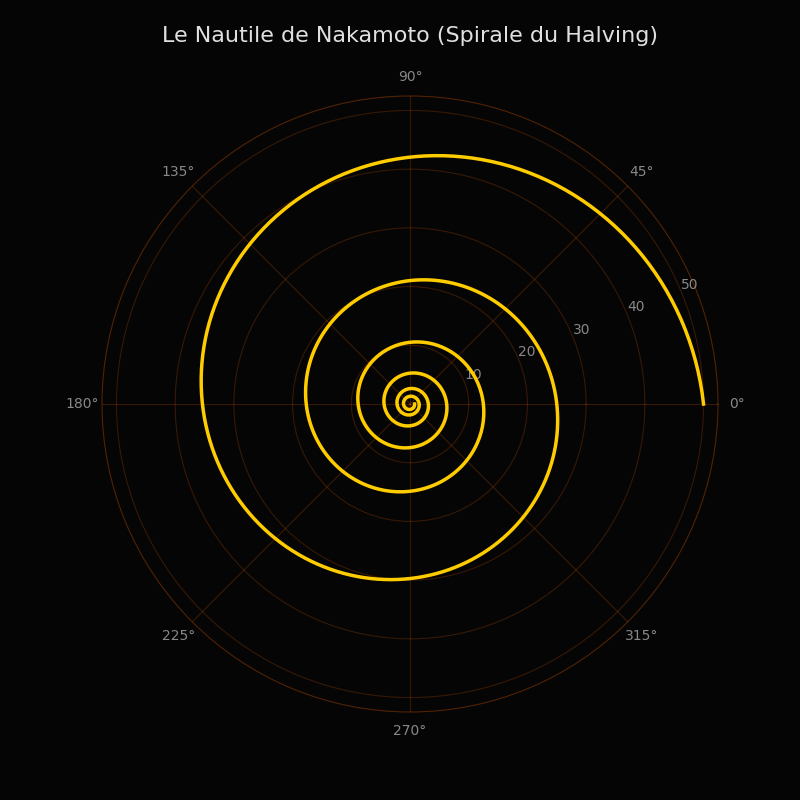
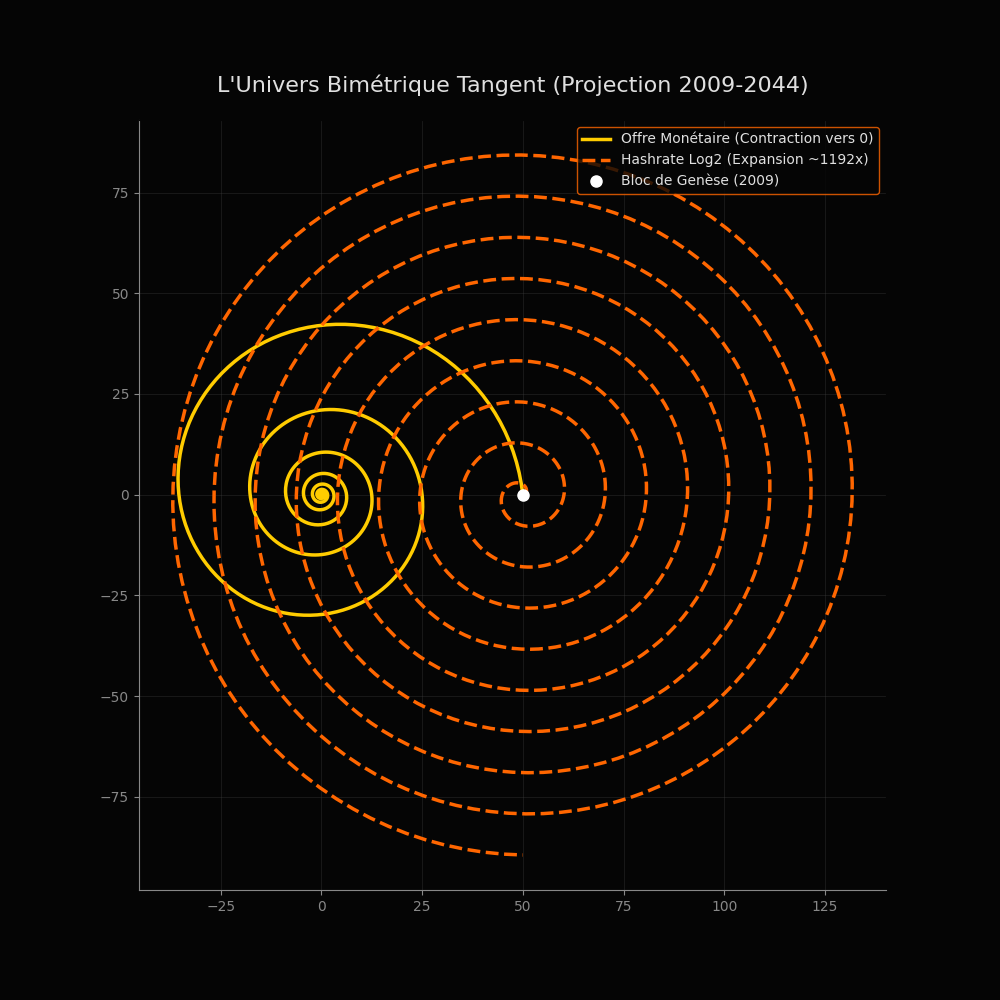
new blog post Nakamoto Nautile

diff --git a/blog/nautile-nakamoto.html b/blog/nautile-nakamoto.html
@@ -7,7 +7,6 @@
     <meta http-equiv="Cache-Control" content="no-cache, no-store, must-revalidate">
     <title>Le Nautile de Nakamoto | L'Étalon Solaire</title>
     
-    <!-- MathJax pour les équations -->
     <script>
         window.MathJax = {
             tex: {
@@ -19,7 +18,6 @@
     </script>
     <script id="MathJax-script" async src="https://cdn.jsdelivr.net/npm/mathjax@3/es5/tex-mml-chtml.js"></script>
 
-    <!-- Highlight.js pour la coloration syntaxique du code Python -->
     <link rel="stylesheet" href="https://cdnjs.cloudflare.com/ajax/libs/highlight.js/11.9.0/styles/base16/dracula.min.css">
     <script src="https://cdnjs.cloudflare.com/ajax/libs/highlight.js/11.9.0/highlight.min.js"></script>
     <script>hljs.highlightAll();</script>
@@ -41,11 +39,9 @@
             line-height: 1.8;
         }
 
-        /* ── i18n Language Toggle Logic ── */
         body.lang-en [lang="fr"] { display: none !important; }
         body.lang-fr [lang="en"] { display: none !important; }
         
-        /* Navigation Minimaliste */
         nav {
             position: fixed; top: 0; left: 0; right: 0; z-index: 100;
             display: flex; align-items: center; justify-content: space-between;
@@ -60,7 +56,6 @@
         a.next { color: var(--sun-orange); text-decoration: none; font-size: 0.75rem; letter-spacing: 2px; text-transform: uppercase; transition: color 0.3s; }
         a.next:hover { color: var(--sun-orange); }
 
-        /* Language Toggle Buttons */
         .lang-toggle {
             display: flex; gap: 10px; align-items: center;
             border-left: 1px solid rgba(255,255,255,0.1); padding-left: 1.5rem;
@@ -75,7 +70,6 @@
             filter: drop-shadow(0 0 8px rgba(255,200,0,0.4));
         }
 
-        /* Conteneur de l'Article */
         article {
             max-width: 760px; margin: 8rem auto 6rem; padding: 0 2rem;
             font-size: 1.15rem; color: #d4d4d4;
@@ -85,12 +79,10 @@
         .article-meta { font-size: 0.8rem; letter-spacing: 3px; text-transform: uppercase; color: var(--sun-orange); margin-bottom: 1rem; display: block; }
         .article-title { font-size: 3rem; font-weight: 800; line-height: 1.2; color: #fff; margin-bottom: 1.5rem; }
         
-        /* Typographie du contenu */
         article p { margin-bottom: 1.8rem; }
         article h3 { font-family: 'Helvetica Neue', sans-serif; font-size: 1.6rem; color: #fff; margin: 3rem 0 1.5rem; font-weight: 700; }
         article strong { color: var(--sun-yellow); font-weight: bold; }
         
-        /* Citations et Mathématiques */
         blockquote {
             font-family: 'Helvetica Neue', sans-serif;
             border-left: 3px solid var(--sun-orange); padding: 1.5rem 2rem;
@@ -99,17 +91,11 @@
         }
         .math-block { margin: 2rem 0; text-align: center; font-size: 1.3rem; overflow-x: auto; color: var(--sun-yellow); }
 
-        ul.custom-list { list-style: none; margin-bottom: 2rem; }
-        ul.custom-list li { position: relative; padding-left: 1.5rem; margin-bottom: 1rem; font-family: 'Helvetica Neue', sans-serif; font-size: 1.05rem;}
-        ul.custom-list li::before { content: '✦'; position: absolute; left: 0; top: 2px; color: var(--sun-orange); font-size: 1rem; }
-
-        /* Images de l'article */
         .article-image {
             width: 100%; max-width: 900px; border-radius: 8px; border: 1px solid var(--border-glow);
             margin: 3rem auto; display: block; box-shadow: 0 10px 40px rgba(0,0,0,0.5);
         }
 
-        /* Conteneur de Code Stylisé */
         .code-wrapper {
             background: rgba(5, 5, 5, 0.8);
             border: 1px solid var(--border-glow);
@@ -128,7 +114,6 @@
             padding: 0 !important;
         }
 
-        /* Footer */
         footer { font-family: 'Helvetica Neue', sans-serif; text-align: center; padding: 3rem 2rem; border-top: 1px solid var(--border-glow); color: var(--text-muted); font-size: 0.82rem; }
         
         @media (max-width: 768px) {
@@ -162,11 +147,12 @@
         <h1 class="article-title" lang="en">The Nakamoto Nautilus: From Discrete Code to Continuous Geometry</h1>
         <h1 class="article-title" lang="fr">Le Nautile de Nakamoto : Du Code Discret à la Géométrie Continue</h1>
     </header>
-   <img src="NautileNakamotoIM.png" alt="Nautile Nakamoto Image" style="width: 100%; max-width: 900px; height: auto; border-radius: 8px; border: 1px solid rgba(255, 170, 0, 0.2);">
+    
+    <img src="NautileNakamotoIM.png?v=3" alt="Nautile Nakamoto Image" style="width: 100%; max-width: 900px; height: auto; border-radius: 8px; border: 1px solid rgba(255, 170, 0, 0.2);">
     
     <blockquote lang="en">
         “Mathematics is the language in which God has written the universe.”<br>
-         <span style="color:var(--sun-orange); font-size:0.85rem; font-style:normal; letter-spacing:2px; text-transform:uppercase; display:block; margin-top:10px;">— Galileo Galilei</span>
+        <span style="color:var(--sun-orange); font-size:0.85rem; font-style:normal; letter-spacing:2px; text-transform:uppercase; display:block; margin-top:10px;">— Galileo Galilei</span>
     </blockquote>
     <blockquote lang="fr">
         « Les mathématiques sont le langage dans lequel Dieu a écrit l'univers. »<br>
@@ -190,7 +176,7 @@
     <p lang="fr">En retirant l'opérateur discret de partie entière et en projetant l'émission continue en coordonnées polaires dans notre plan complexe ($Z = a + ib$) — où une rotation complète ($2\pi$) équivaut à un cycle de 4 ans —, nous découvrons un lien profond avec la proportion divine. En définissant un exposant d'or $\alpha = \frac{\ln(2)}{\ln(\varphi)} \approx 1.44$, l'équation absolue du Nautile de Nakamoto émerge :</p>
 
     <div class="math-block">
-        $$ Z(\theta) = R_0 \cdot \varphi^{-\alpha \frac{\theta}{2\pi}} \cdot e^{i\theta} $$
+        $$ Z_{supply}(\theta) = R_0 \cdot \varphi^{-\alpha \frac{\theta}{2\pi}} \cdot e^{i\theta} $$
     </div>
 
     <p lang="en">This formulation perfectly illustrates the bimetric reality of the universe we are building. The base $\varphi$ (the golden ratio) anchors the network in the universal constant of biological growth and thermodynamic optimization. However, the negative exponent ($-\alpha$) acts as the thermodynamic friction: it is the mechanical contraction, the physical scarcity that pulls the system inward.</p>
@@ -199,52 +185,98 @@
     <p lang="en">The imaginary part ($e^{i\theta}$) drives the orthogonal rotation: the steady accumulation of cryptographic consensus over time. It represents the incorruptible memory being carved into the $ib$ axis.</p>
     <p lang="fr">La partie imaginaire ($e^{i\theta}$) pilote la rotation orthogonale : l'accumulation régulière du consensus cryptographique à travers le temps. Elle représente la mémoire incorruptible gravée sur l'axe $ib$.</p>
 
-    <h3 lang="en">Infinite Density</h3>
-    <h3 lang="fr">La Densité Infinie</h3>
+    <h3 lang="en">The Conjugate Spiral: Tangent Topologies</h3>
+    <h3 lang="fr">La Spirale Conjuguée : Topologies Tangentes</h3>
 
-    <p lang="en">Bitcoin is quite literally a mathematical nautilus, a living digital organism that uses thermodynamic dissipation to pull its physical value inward, sealing it into infinite density according to the laws of the golden ratio.</p>
-    <p lang="fr">Bitcoin est littéralement un nautile mathématique, un organisme numérique vivant qui utilise la dissipation thermodynamique pour tracter sa valeur physique vers l'intérieur, la scellant dans une densité infinie selon les lois de la proportion divine.</p>
+    <p lang="en">In the mathematics of the complex plane, every fundamental structure possesses a conjugate ($\bar{z}$). If the Nakamoto Nautilus dictates the inward contraction of monetary supply, what is its outward reflection? The answer lies in the physical world: <strong>Hashrate</strong> (thermodynamic work) and <strong>Price</strong> (economic value).</p>
+    <p lang="fr">Dans les mathématiques du plan complexe, toute structure fondamentale possède un conjugué ($\bar{z}$). Si le Nautile de Nakamoto dicte la contraction interne de l'offre monétaire, quel est son reflet vers l'extérieur ? La réponse se trouve dans le monde physique : le <strong>Hashrate</strong> (travail thermodynamique) et le <strong>Prix</strong> (valeur économique).</p>
 
-    <p lang="en">Just as the starfish embryo uses chemical waves to generate topological defects that dictate its shape, the Nakamoto consensus uses physical energy to sculpt a rigid, symmetric digital reality. It is the ultimate bridge between the thermodynamic entropy of the Earth and the absolute order of the Twin Universe.</p>
-    <p lang="fr">Tout comme l'embryon d'étoile de mer utilise des ondes chimiques pour générer les défauts topologiques qui dicteront sa forme, le consensus de Nakamoto utilise l'énergie physique pour sculpter une réalité numérique rigide et symétrique. C'est le pont ultime entre l'entropie thermodynamique de la Terre et l'ordre absolu de l'Univers Jumeau.</p>
+    <p lang="en">Because the physical network expands by an astronomical factor (driven by a massive temporal scaling exponent $\alpha \approx 11.59$ empirically observed in the log-log phase space), its geometry cannot be forced into the same topological center as the shrinking supply without obliterating the scale. Instead, the Bimetric Universe dictates a <strong>tangent topology</strong>. The two spirals—the code that contracts and the energy that expands—are distinct circles that kiss at a single, absolute point of origin: the Genesis Block.</p>
+    <p lang="fr">Parce que le réseau physique s'étend d'un facteur astronomique (piloté par une loi de puissance temporelle à l'exposant massif $\alpha \approx 11.59$ empiriquement observé dans l'espace des phases log-log), sa géométrie ne peut être forcée dans le même centre topologique que l'offre qui se rétracte sans en anéantir l'échelle. L'Univers Bimétrique dicte plutôt une <strong>topologie tangente</strong>. Les deux spirales — le code qui se contracte et l'énergie qui s'évase — sont des cercles distincts qui s'embrassent en un unique point d'origine absolu : le Bloc de Genèse.</p>
 
-    <img src="NautileNakamoto.png" alt="Nautile Nakamoto Coded" style="width: 100%; max-width: 900px; height: auto; border-radius: 8px; border: 1px solid rgba(255, 170, 0, 0.2); display: block; margin: 3rem auto; box-shadow: 0 10px 40px rgba(0,0,0,0.5);">
-    <!-- Section du code Python -->
-    <p lang="en">For the visually inclined and researchers wishing to verify this geometric emergence, you can execute the following Python code using `matplotlib` to render the precise shape of the logarithmic spiral formed by the halving cycles:</p>
-    <p lang="fr">Pour les plus visuels et les chercheurs désirant vérifier cette émergence géométrique, vous pouvez exécuter le code Python suivant via `matplotlib` afin de générer la forme exacte de la spirale logarithmique dessinée par les cycles du Halving :</p>
+    <img src="NautileNakamoto.png?v=3" alt="Le Nautile Conjugué Sécant" style="width: 100%; max-width: 900px; height: auto; border-radius: 8px; border: 1px solid rgba(255, 170, 0, 0.2); display: block; margin: 3rem auto; box-shadow: 0 10px 40px rgba(0,0,0,0.5);">
+
+    <p lang="en">For researchers wishing to verify this tangent bimetric geometry empirically up to the year 2044, you can execute the following Python script. It fetches real-time historical Hashrate data via API, computes the exact outward growth factor, and plots the intersecting spirals in cartesian space to preserve their true native scales:</p>
+    <p lang="fr">Pour les chercheurs désirant vérifier cette géométrie bimétrique tangente empiriquement jusqu'en 2044, vous pouvez exécuter le script Python suivant. Il télécharge l'historique du Hashrate via API, calcule le facteur de croissance exact, et trace les spirales sécantes dans l'espace cartésien pour préserver leurs échelles natives :</p>
 
     <div class="code-wrapper">
-        <pre><code class="language-python">import numpy as np
+<pre><code class="language-python">import requests
+import numpy as np
 import matplotlib.pyplot as plt
 
-# Paramètres du Halving
-R0 = 50.0  # Récompense initiale (50 BTC)
-halvings = 6  # Nombre de cycles à tracer
+print("Téléchargement des données de Hashrate...")
+try:
+    url = "https://api.blockchain.info/charts/hash-rate?timespan=all&sampled=true&format=json"
+    data = requests.get(url).json()['values']
+    x_data = np.array([pt['x'] for pt in data])
+    y_data = np.array([pt['y'] for pt in data])
+    valid = y_data > 0
+    x_data, y_data = x_data[valid], y_data[valid]
+    
+    cycle_seconds = 4 * 365.25 * 24 * 3600
+    x_cycles = (x_data - x_data[0]) / cycle_seconds
+    
+    a, b = np.polyfit(x_cycles, np.log(y_data), 1)
+    growth_factor = np.exp(a)
+except:
+    print("Utilisation du facteur de croissance historique approximatif.")
+    growth_factor = 1192.0 # Loi de puissance temporelle (alpha ~11.59)
 
-# Générer les angles (thêta) de 0 à 6 tours complets (6 * 2pi)
+print(f"Facteur de croissance empirique du Hashrate : ~{growth_factor:.0f}x par cycle")
+
+# --- TRACÉ DES SPIRALES TANGENTES EN COORDONNÉES CARTÉSIENNES ---
+# Projection jusqu'en 2044 (35 ans après 2009 = 8.75 cycles)
+halvings = 8.75
 theta = np.linspace(0, halvings * 2 * np.pi, 1000)
 
-# L'équation du Nautile de Nakamoto : R(theta) = R0 * (0.5)^(theta / 2pi)
-radius = R0 * (0.5)**(theta / (2 * np.pi))
+# 1. Spirale de l'Offre (Contraction)
+# Le centre de cette spirale est à l'origine (0,0) cartésienne
+R0_supply = 50.0 
+r_supply = R0_supply * (0.5)**(theta / (2 * np.pi))
+x_supply = r_supply * np.cos(theta)
+y_supply = r_supply * np.sin(theta)
 
-# Configuration du graphique
-fig, ax = plt.subplots(subplot_kw={'projection': 'polar'}, figsize=(8, 8))
+# Le Bloc de Genèse pour l'Offre (theta=0) est à x = R0_supply, y = 0
+genesis_x = R0_supply
+genesis_y = 0
+
+# 2. Spirale du Hashrate (Expansion Logarithmique Tangente)
+# Pour que les spirales soient tangentes, l'origine de la spirale du Hashrate 
+# doit être décalée par rapport à celle de l'Offre.
+# On la décale le long de l'axe X.
+r_hashrate = np.log2(growth_factor) * (theta / (2 * np.pi))
+
+# On décale le centre de la spirale d'expansion pour que son point 
+# de départ (theta=0, r=0) touche exactement le point de genèse de l'offre.
+x_hashrate = genesis_x + r_hashrate * np.cos(theta)
+y_hashrate = genesis_y + r_hashrate * np.sin(theta)
+
+# Visualisation
+fig, ax = plt.subplots(figsize=(10, 10))
 fig.patch.set_facecolor('#050505')
 ax.set_facecolor('#050505')
 
-# Tracer la spirale
-ax.plot(theta, radius, color='#ffcc00', linewidth=2.5, label='Émission Bitcoin')
+# Tracer les géométries
+ax.plot(x_supply, y_supply, color='#ffcc00', linewidth=2.5, label='Offre Monétaire (Contraction vers 0)')
+ax.plot(x_hashrate, y_hashrate, color='#ff6600', linewidth=2.5, linestyle='--', label=f'Hashrate Log2 (Expansion ~{growth_factor:.0f}x)')
 
-# Esthétique : cacher les grilles pour un look "Étalon Solaire"
-ax.grid(color='#ff6600', alpha=0.2)
-ax.spines['polar'].set_color('#ff6600')
-ax.spines['polar'].set_alpha(0.3)
+# Marquer le point d'intersection (Bloc de Genèse)
+ax.plot(genesis_x, genesis_y, 'wo', markersize=8, label='Bloc de Genèse (2009)')
+
+# Esthétique
+ax.grid(color='#444444', alpha=0.3)
+ax.spines['bottom'].set_color('#888888')
+ax.spines['top'].set_color('#050505')
+ax.spines['right'].set_color('#050505')
+ax.spines['left'].set_color('#888888')
 ax.tick_params(colors='#888888')
+ax.set_aspect('equal', adjustable='box')
 
-plt.title("Le Nautile de Nakamoto (Spirale du Halving)", color='#e0e0e0', size=16, pad=20)
+plt.title("L'Univers Bimétrique Tangent (Projection 2009-2044)", color='#e0e0e0', size=16, pad=20)
+plt.legend(loc='upper right', facecolor='#050505', edgecolor='#ff6600', labelcolor='#e0e0e0')
 plt.show()</code></pre>
     </div>
-    <div><iframe width="560" height="315" src="https://www.youtube.com/embed/3R4tpdJVjXw?si=p_-dEMvZhnSR-aoY" title="YouTube video player" frameborder="0" allow="accelerometer; autoplay; clipboard-write; encrypted-media; gyroscope; picture-in-picture; web-share" referrerpolicy="strict-origin-when-cross-origin" allowfullscreen></iframe></div>
+
     <p><br />
         <a href="le-monde-est-complexe.html" class="next" lang="en">← Read the foundational essay: "The world is complex"</a>
         <a href="le-monde-est-complexe.html" class="next" lang="fr">← Lire l'essai fondateur : "Le monde est complexe"</a>
